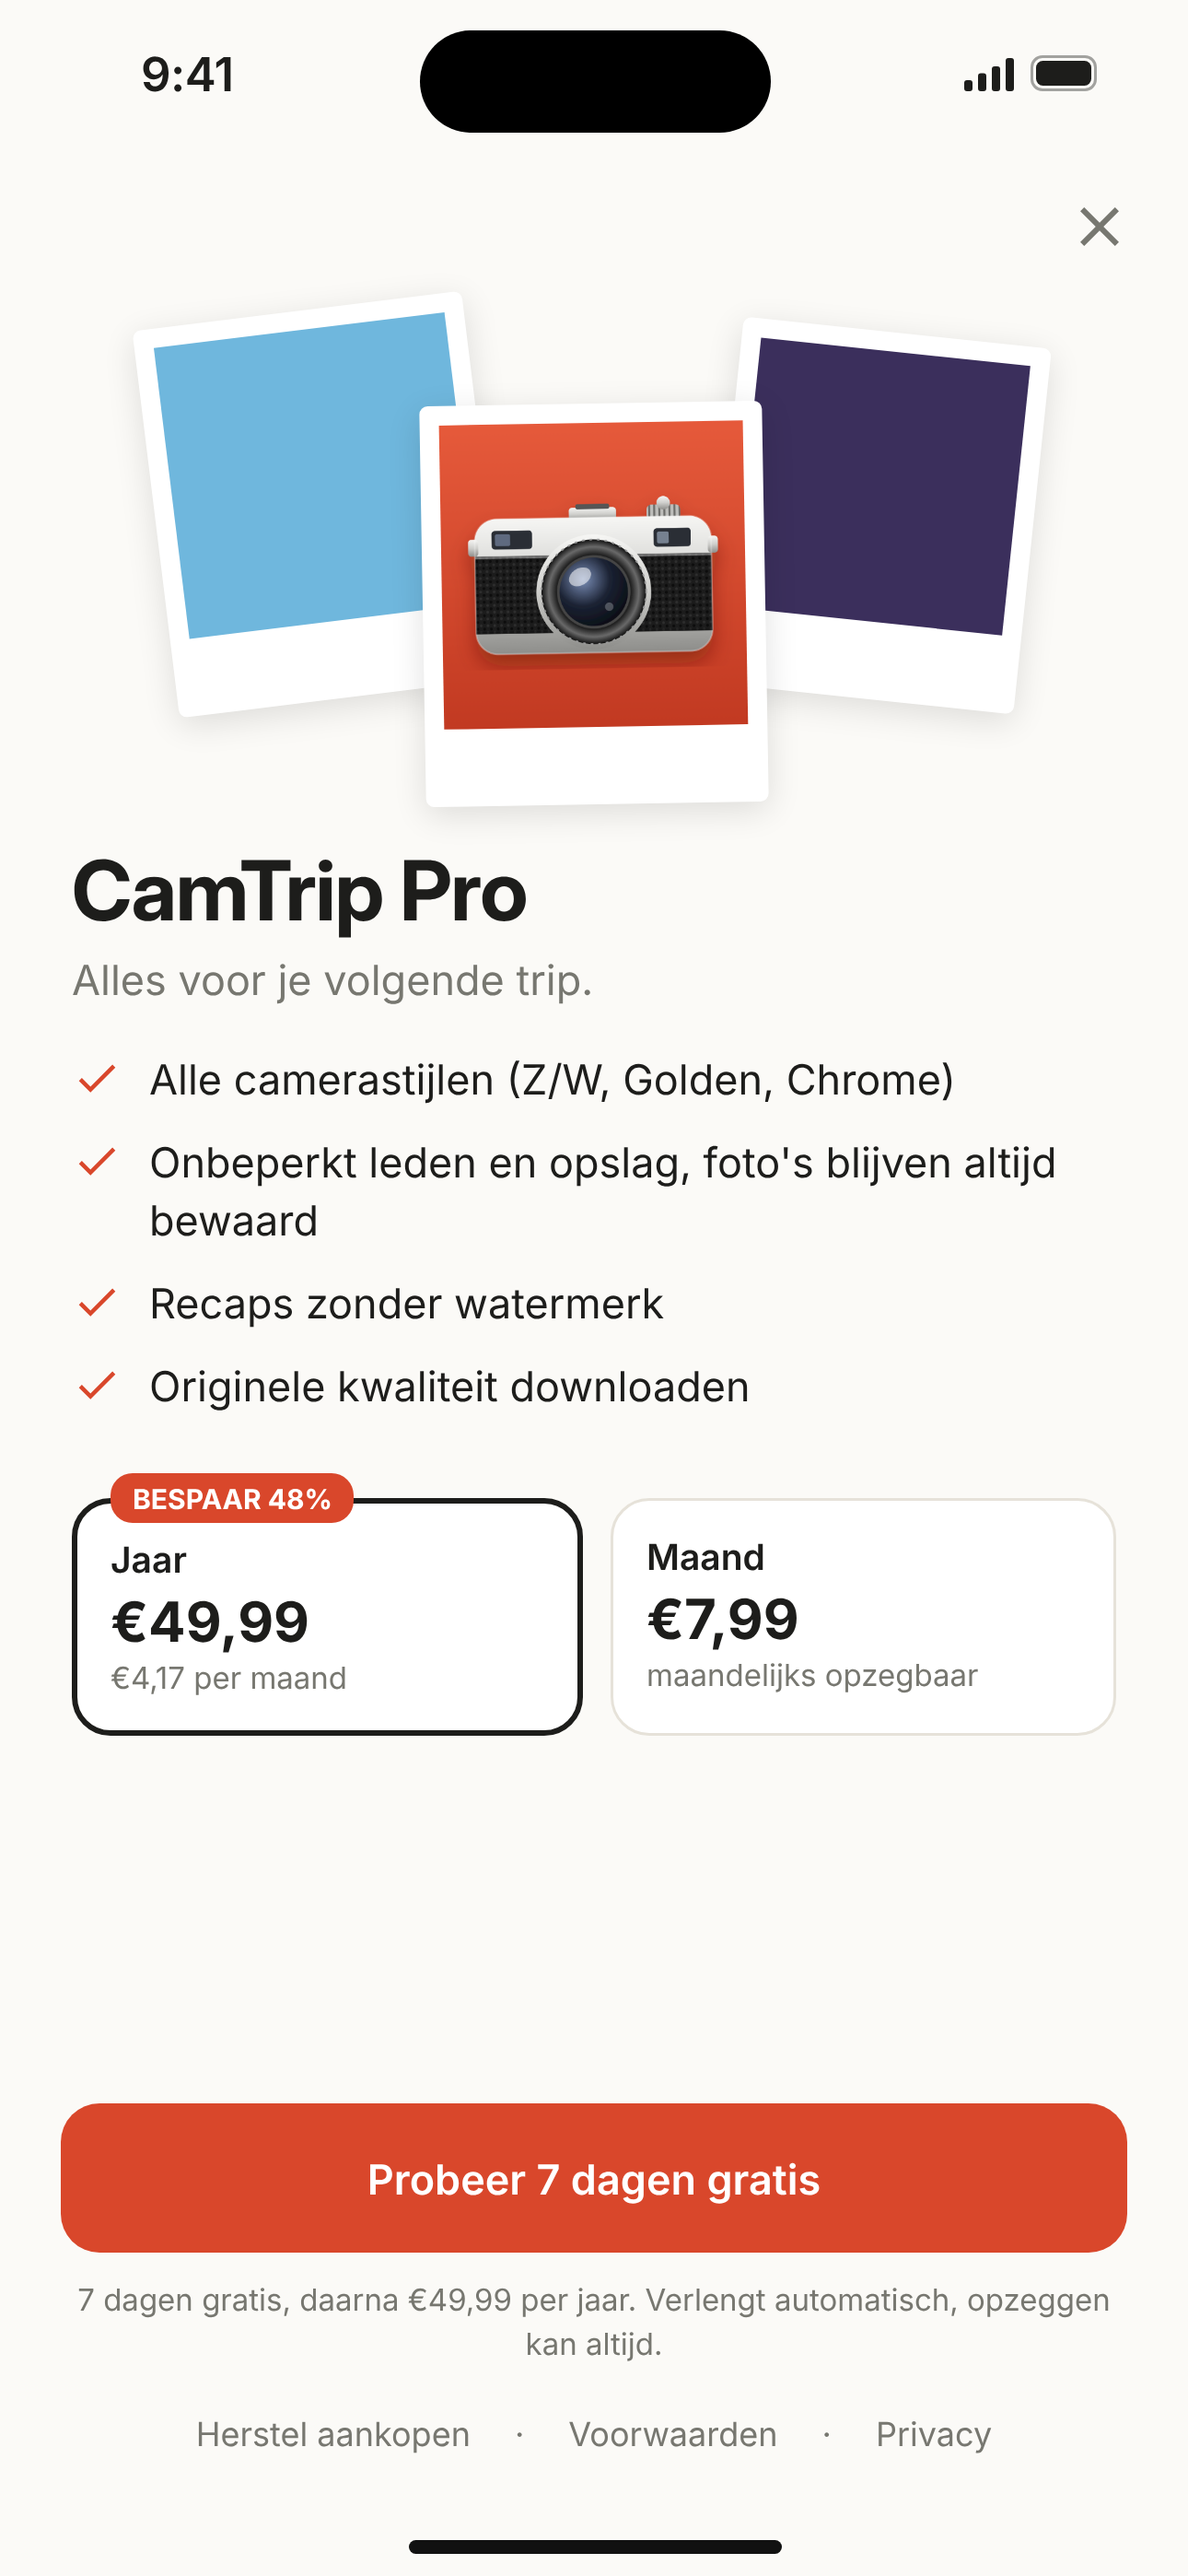
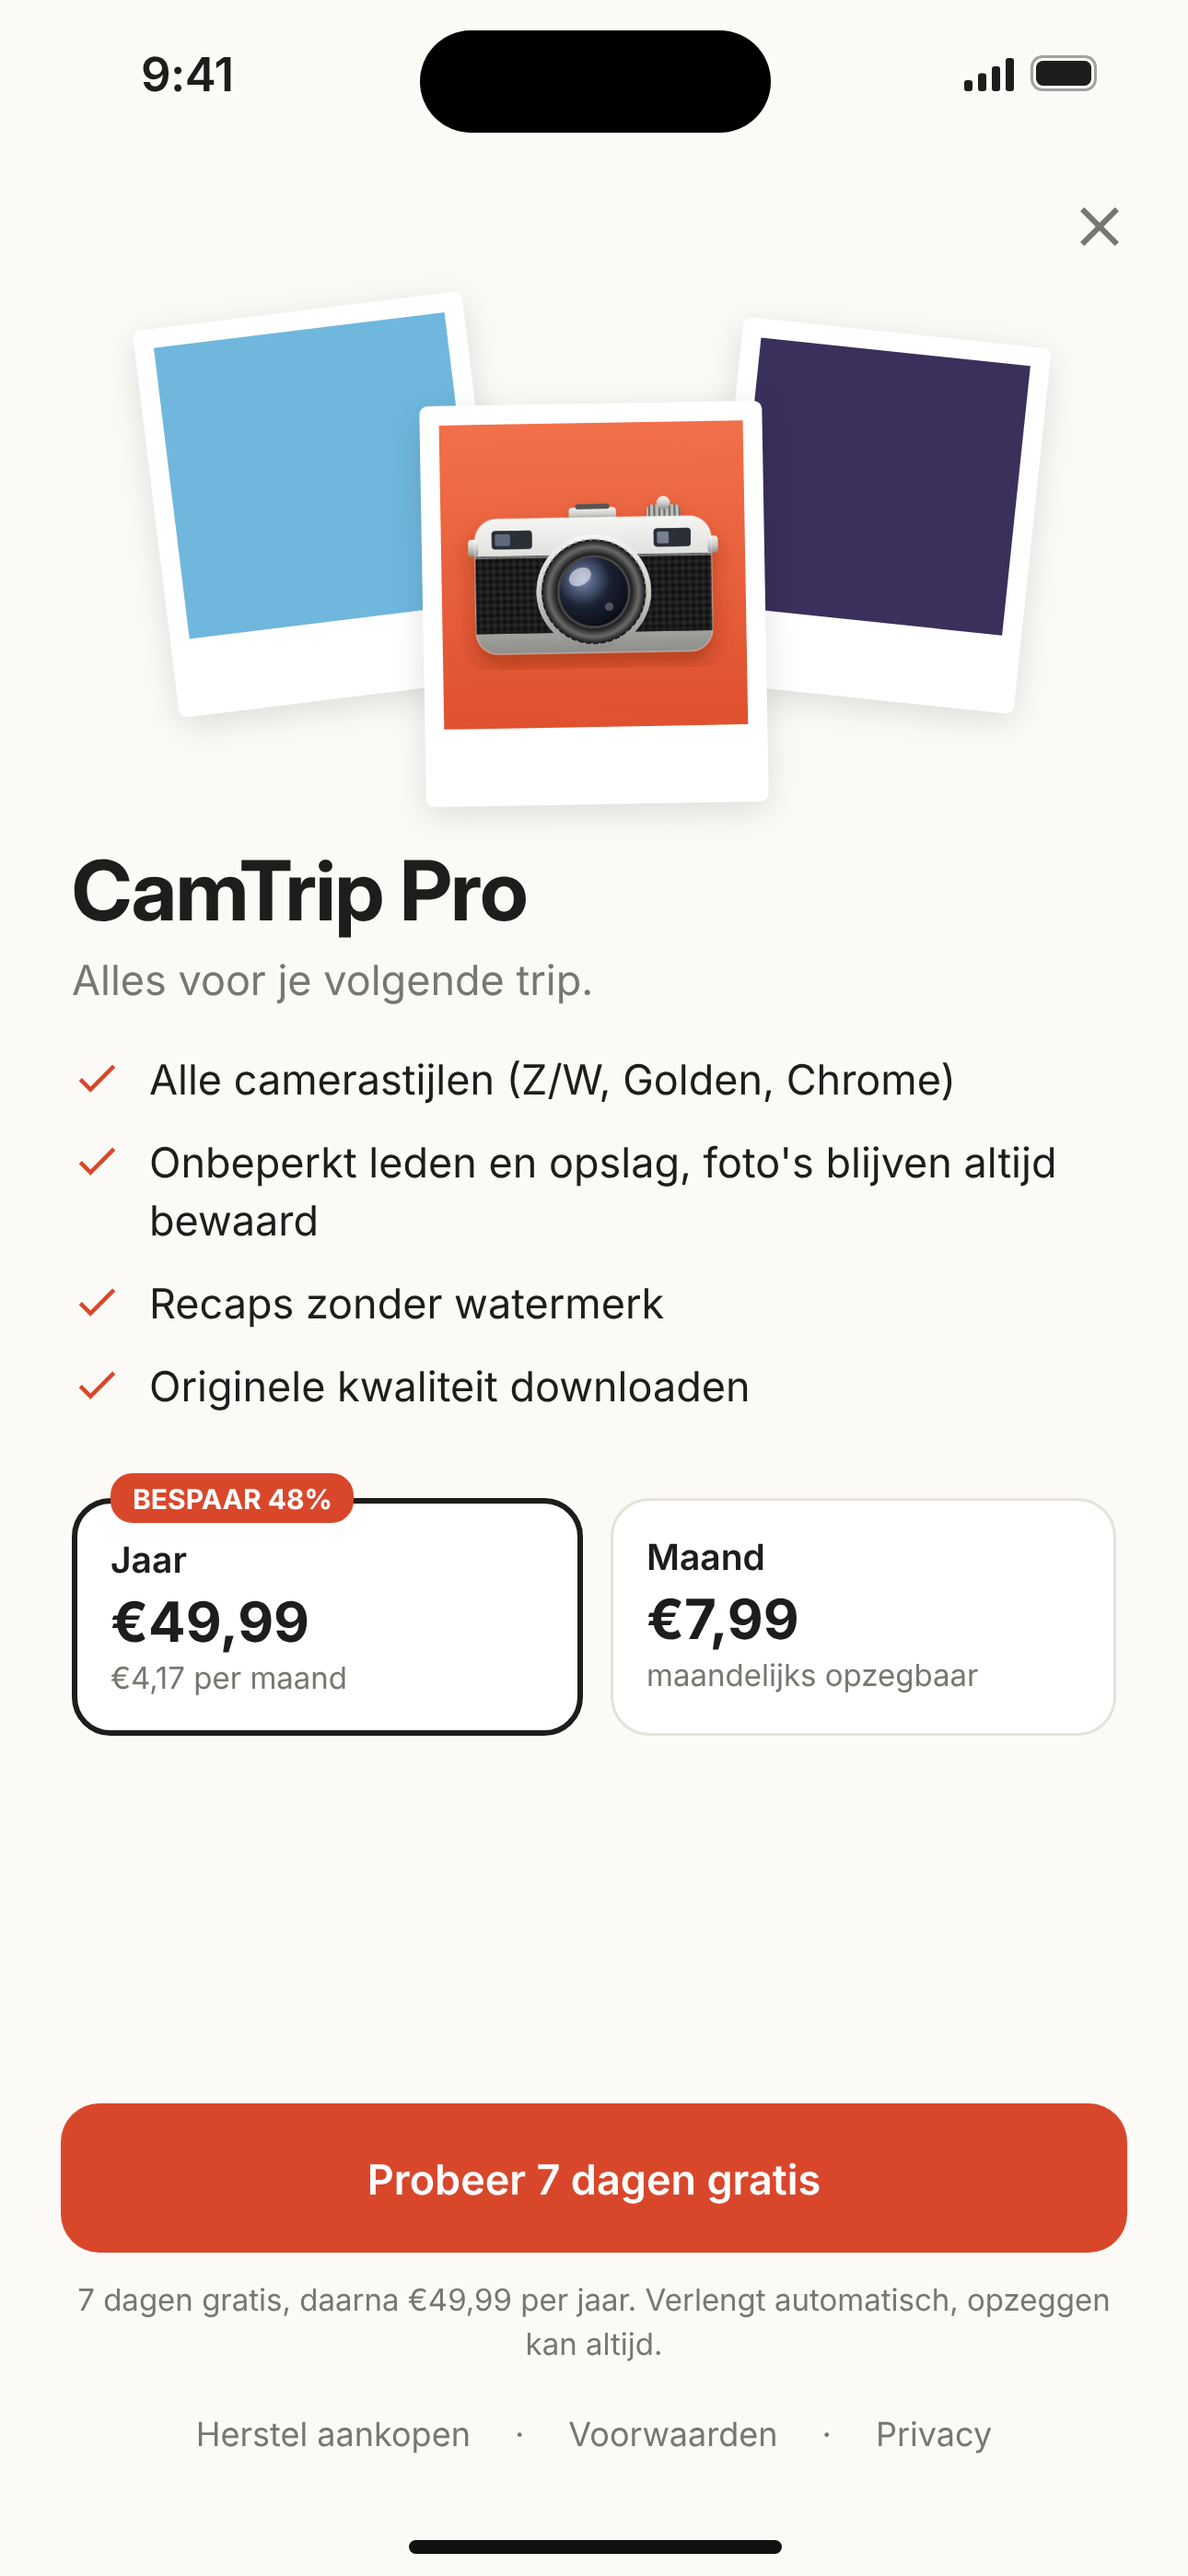
asc_check: upload subscription review screenshots
Claude-Session: https://claude.ai/code/session_01WdEy4SDQQMmi1HZziyDbLy

Changed region(s): [[0.3721, 0.2178, 0.6512, 0.28]]

diff --git a/.github/workflows/scripts/asc_check.py b/.github/workflows/scripts/asc_check.py
@@ -405,6 +405,46 @@ def set_review_details(client):
     log("App review information saved.")
 
 
+REVIEW_SHOT = os.path.join(os.path.dirname(__file__), "..", "..", "..", "store", "review", "paywall_review.png")
+
+
+def upload_asset(client, create_type, rel_name, parent_id, path):
+    """Reserve, upload and commit an image asset (App Store Connect asset flow)."""
+    import hashlib
+    data = open(path, "rb").read()
+    res = client.request("POST", create_type, json={"data": {
+        "type": create_type,
+        "attributes": {"fileName": os.path.basename(path), "fileSize": len(data)},
+        "relationships": {rel_name: {"data": {"type": "subscriptions", "id": parent_id}}},
+    }})["data"]
+    for op in res["attributes"]["uploadOperations"]:
+        chunk = data[op["offset"]:op["offset"] + op["length"]]
+        headers = {h["name"]: h["value"] for h in op.get("requestHeaders", [])}
+        r = requests.request(op["method"], op["url"], data=chunk, headers=headers, timeout=120)
+        r.raise_for_status()
+    client.request("PATCH", f"{create_type}/{res['id']}", json={"data": {
+        "type": create_type, "id": res["id"],
+        "attributes": {"uploaded": True, "sourceFileChecksum": hashlib.md5(data).hexdigest()},
+    }})
+    return res["id"]
+
+
+def set_subscription_review_shots(client):
+    path = os.path.abspath(REVIEW_SHOT)
+    if not os.path.exists(path):
+        log("::warning::store/review/paywall_review.png missing; subscription review screenshot skipped.")
+        return
+    groups = client.get(f"apps/{APP_ID}/subscriptionGroups", params={"include": "subscriptions"})
+    for sub in [i for i in groups.get("included", []) if i["type"] == "subscriptions"]:
+        sid = sub["id"]
+        current = client.request("GET", f"subscriptions/{sid}/appStoreReviewScreenshot")
+        if current.get("data"):
+            log(f"{sub['attributes']['productId']}: review screenshot already present.")
+            continue
+        upload_asset(client, "subscriptionAppStoreReviewScreenshots", "subscription", sid, path)
+        log(f"{sub['attributes']['productId']}: review screenshot uploaded.")
+
+
 def cmd_configure(client):
     """Content rights, age rating, free price, review details, primary locale."""
     failures = []
@@ -414,6 +454,7 @@ def cmd_configure(client):
         ("price", set_free_price, True),
         ("review details", set_review_details, False),
         ("primary locale", set_primary_locale, False),
+        ("subscription review screenshots", set_subscription_review_shots, False),
     ]:
         try:
             func(client)
